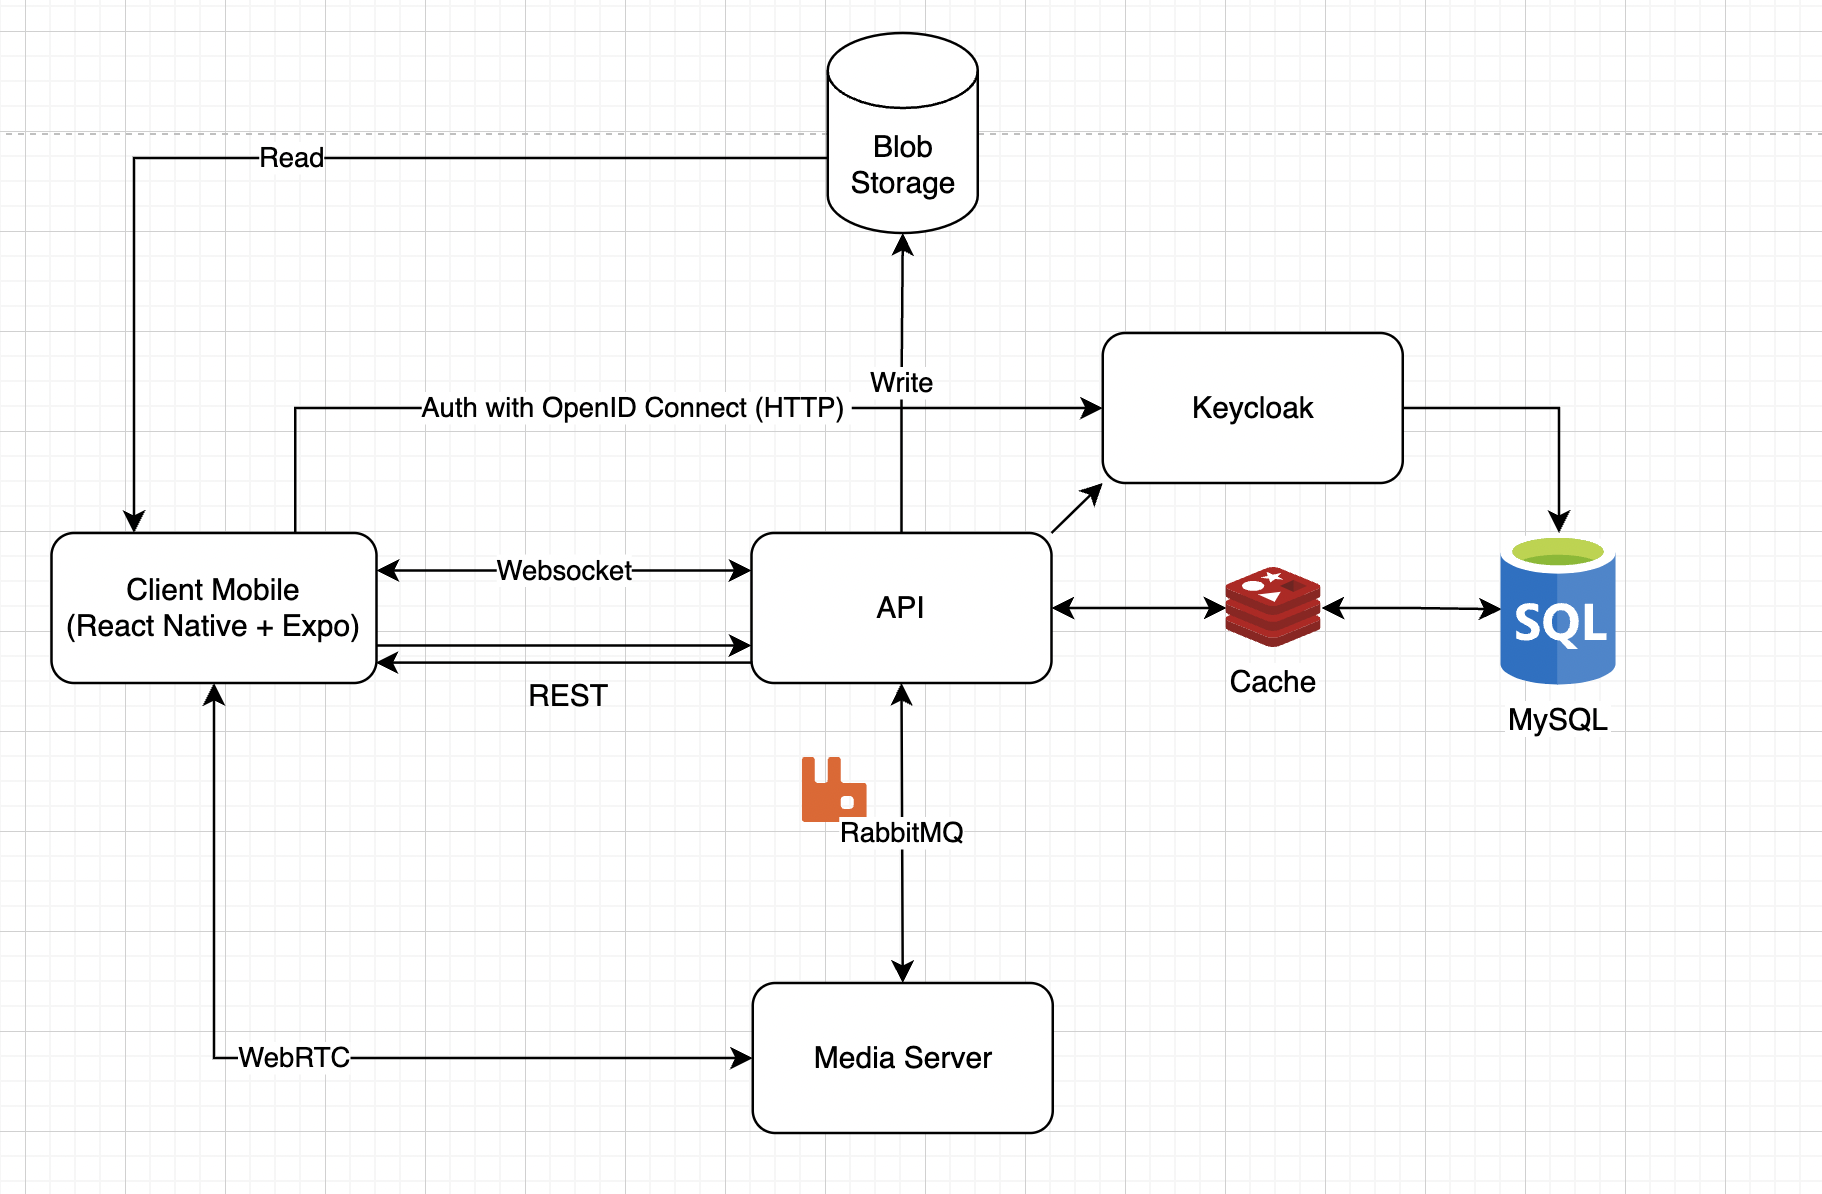
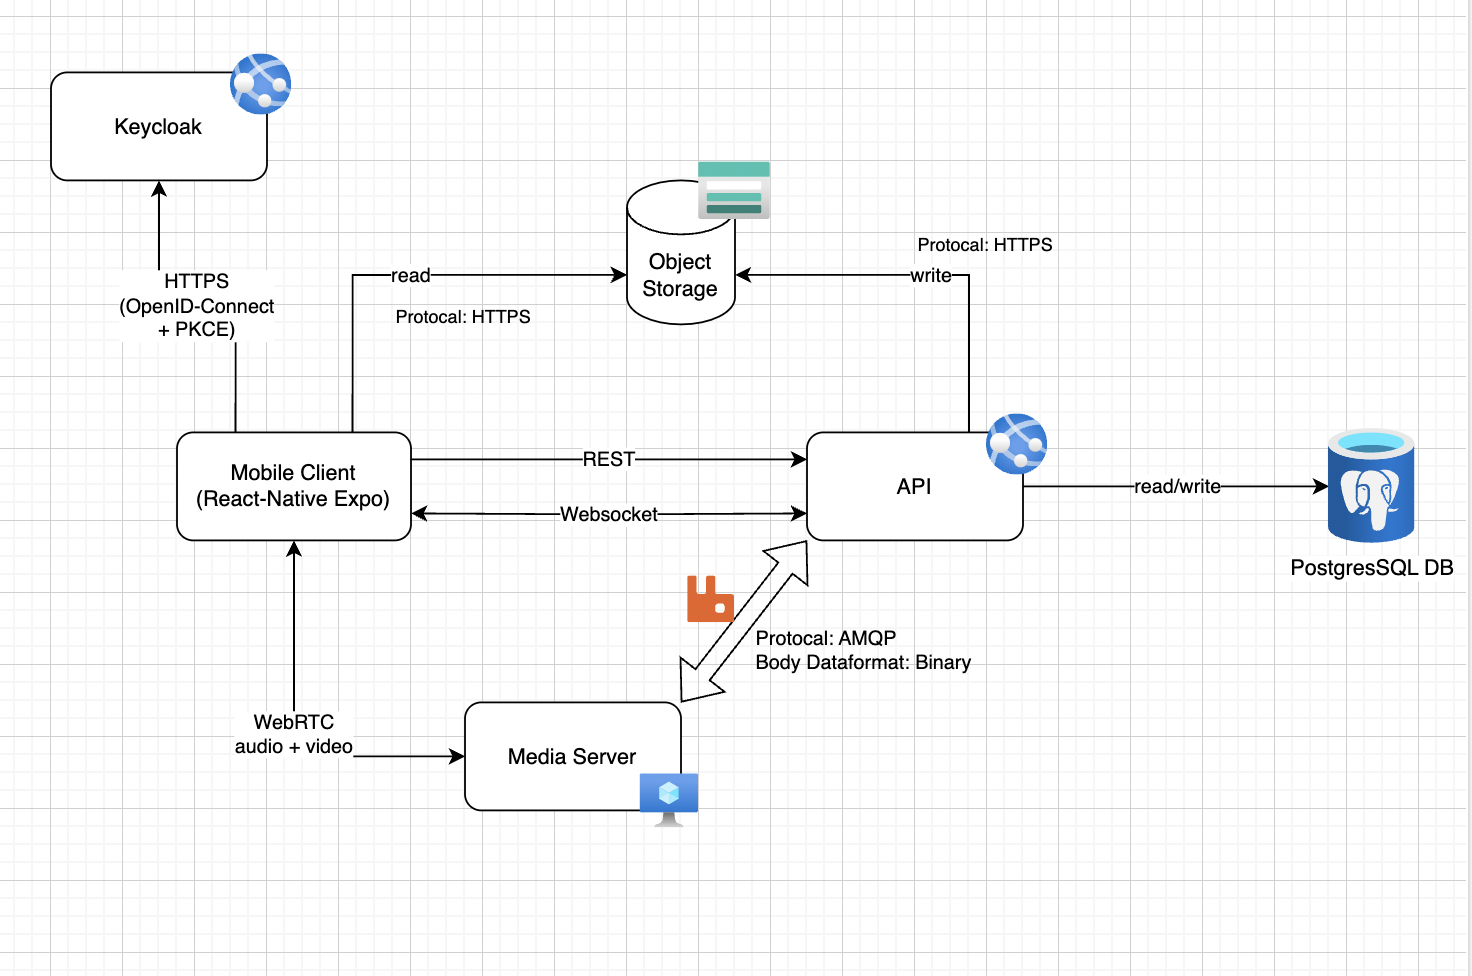
docs: updated readme

diff --git a/README.md b/README.md
@@ -6,6 +6,10 @@
 
 Lyve is a livestreaming platform where users can create and watch livestreams. Viewers can engage with streamers through chat and by sending rewards, fostering a lively and interactive community. Lyve enhances the experience with gamification, offering achievements and promotion points that help streamers gain more visibility on the platform.
 
+### System Architecture
+
+![System Architecture](./assets/system_architecture.png)
+
 ### Techstack
 
 #### API
